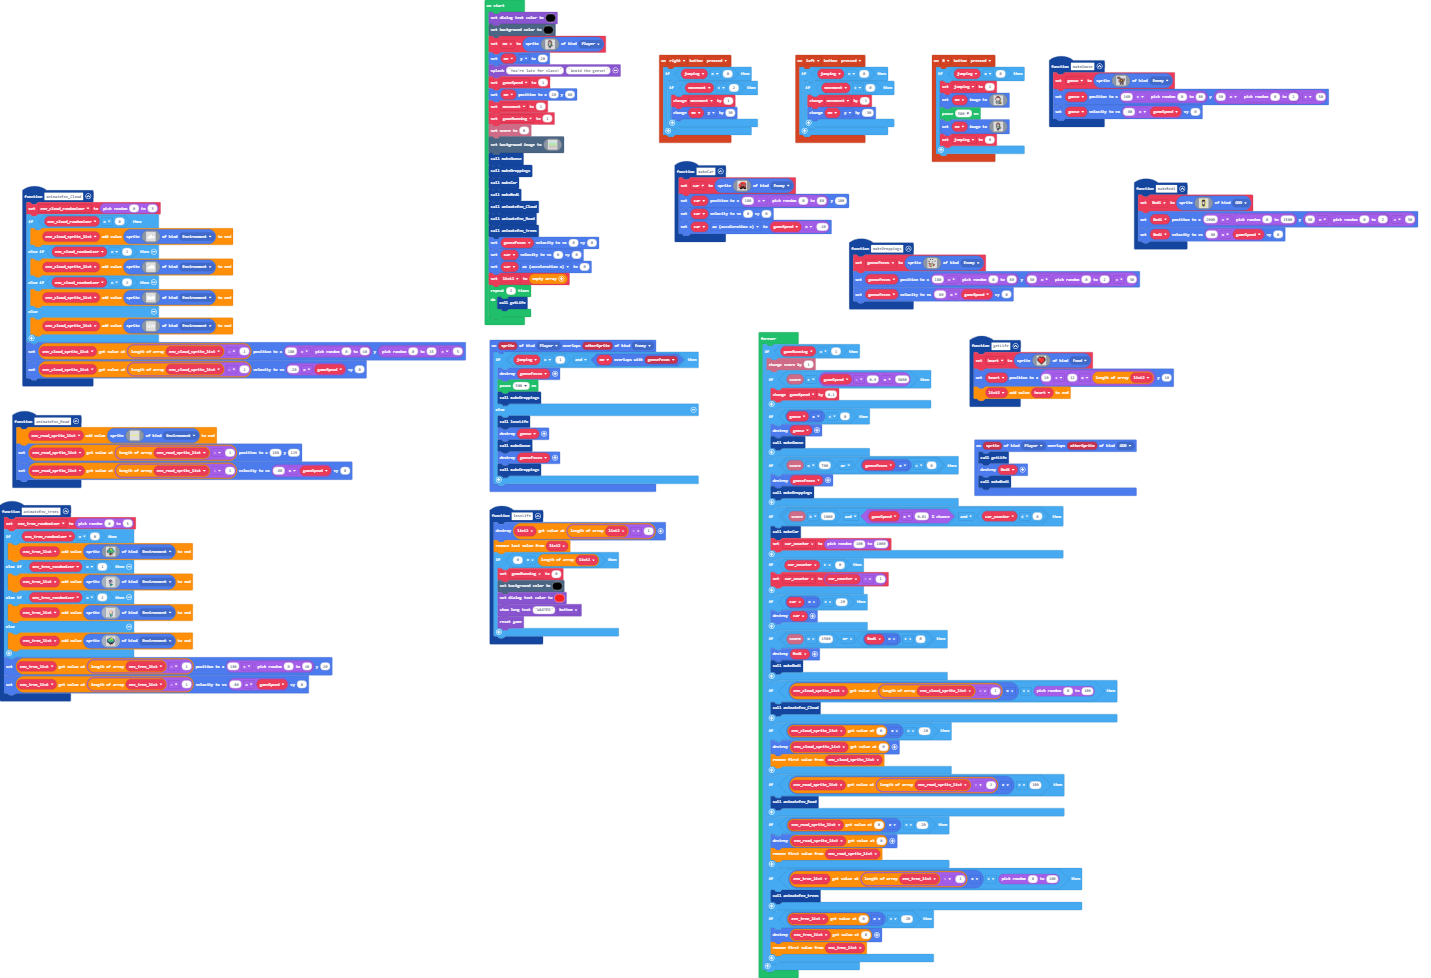
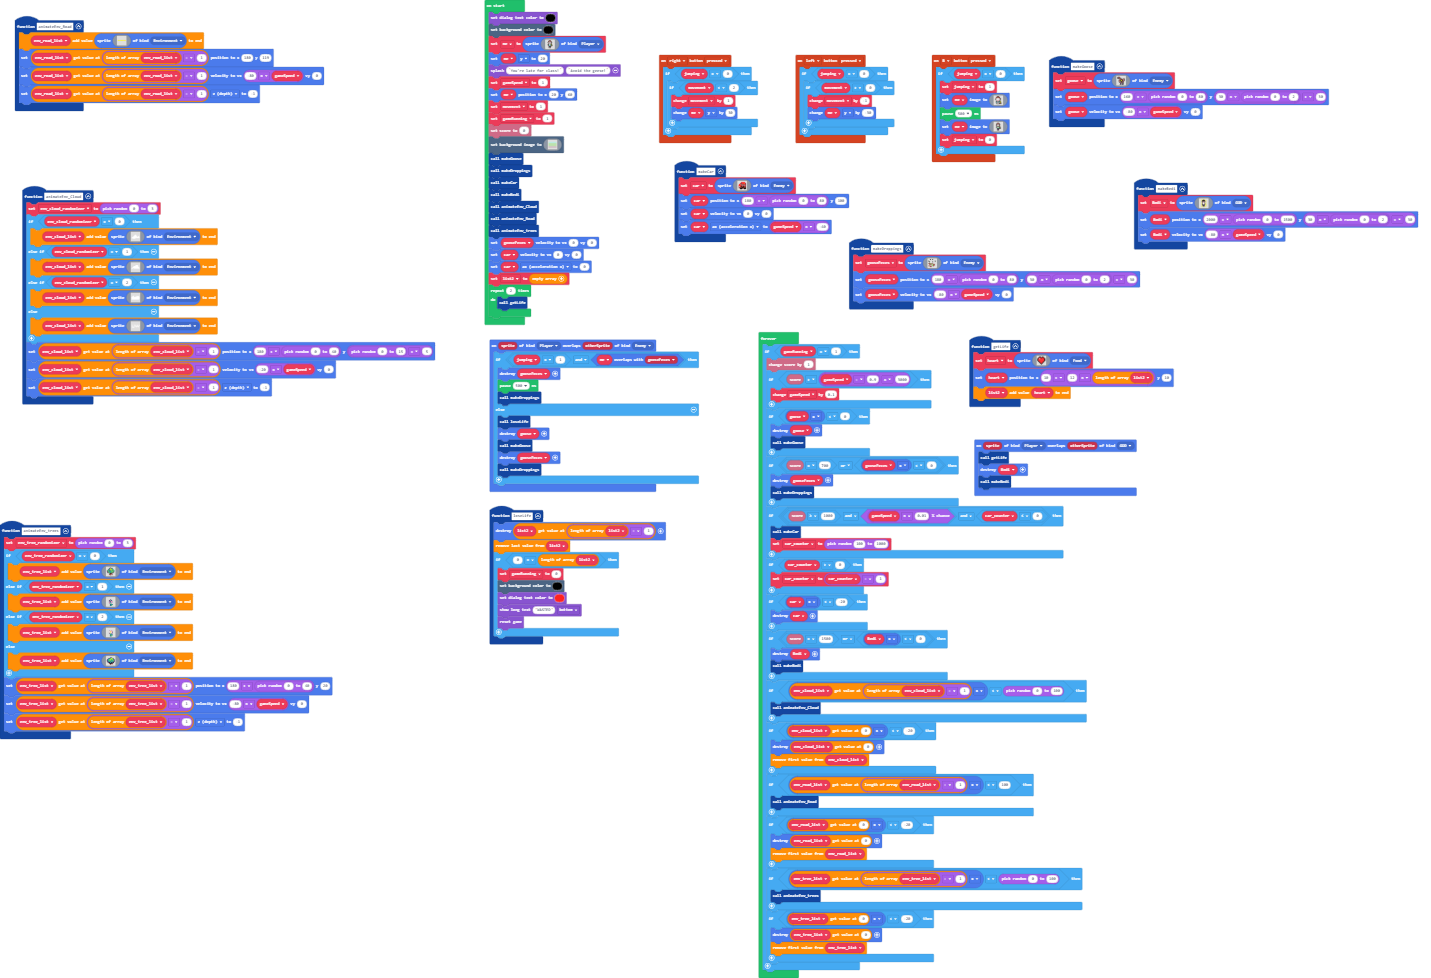
final refactoring

diff --git a/main.ts b/main.ts
@@ -171,6 +171,7 @@ function animateEnv_trees () {
     }
     env_tree_list[env_tree_list.length - 1].setPosition(180 + randint(0, 40), 20)
     env_tree_list[env_tree_list.length - 1].setVelocity(-80 * gameSpeed, 0)
+    env_tree_list[env_tree_list.length - 1].z = -1
 }
 function makeGoose () {
     goose = sprites.create(img`
@@ -291,12 +292,13 @@ function makeBedi () {
     Bedi.setVelocity(-80 * gameSpeed, 0)
 }
 function animateEnv_Road () {
-    env_road_sprite_list.push(sprites.create(img`
+    env_road_list.push(sprites.create(img`
         5 5 5 5 5 5 5 5 5 5 5 5 5 5 5 5 5 5 5 5 5 5 5 5 5 5 5 5 5 5 
         5 5 5 5 5 5 5 5 5 5 5 5 5 5 5 5 5 5 5 5 5 5 5 5 5 5 5 5 5 5 
         `, SpriteKind.Environment))
-    env_road_sprite_list[env_road_sprite_list.length - 1].setPosition(180, 119)
-    env_road_sprite_list[env_road_sprite_list.length - 1].setVelocity(-80 * gameSpeed, 0)
+    env_road_list[env_road_list.length - 1].setPosition(180, 119)
+    env_road_list[env_road_list.length - 1].setVelocity(-80 * gameSpeed, 0)
+    env_road_list[env_road_list.length - 1].z = -1
 }
 sprites.onOverlap(SpriteKind.Player, SpriteKind.GOD, function (sprite, otherSprite) {
     getLife()
@@ -306,7 +308,7 @@ sprites.onOverlap(SpriteKind.Player, SpriteKind.GOD, function (sprite, otherSpri
 function animateEnv_Cloud () {
     env_cloud_randomizer = randint(0, 3)
     if (env_cloud_randomizer == 0) {
-        env_cloud_sprite_list.push(sprites.create(img`
+        env_cloud_list.push(sprites.create(img`
             . . . . . . . 1 1 . . . . . . . 
             . . . . . . 1 1 1 1 . . . . . . 
             . . . . . 1 1 1 1 1 . . . . . . 
@@ -317,7 +319,7 @@ function animateEnv_Cloud () {
             . . 1 1 1 1 1 1 . . . . . . . . 
             `, SpriteKind.Environment))
     } else if (env_cloud_randomizer == 1) {
-        env_cloud_sprite_list.push(sprites.create(img`
+        env_cloud_list.push(sprites.create(img`
             . . . . . . . . 1 1 1 1 1 . . . 
             . . . . . . . . 1 1 1 1 1 1 . . 
             . . . . 1 1 1 1 1 1 1 1 1 1 . . 
@@ -328,7 +330,7 @@ function animateEnv_Cloud () {
             . . . . . . . . . . . . . . . . 
             `, SpriteKind.Environment))
     } else if (env_cloud_randomizer == 2) {
-        env_cloud_sprite_list.push(sprites.create(img`
+        env_cloud_list.push(sprites.create(img`
             . . . . 1 . . . . . . . . . . . 
             . . 1 1 1 . . . . . 1 1 1 1 1 . 
             . 1 1 1 1 . . 1 1 1 1 1 1 1 1 1 
@@ -339,7 +341,7 @@ function animateEnv_Cloud () {
             1 1 1 1 1 1 1 1 1 1 1 1 1 1 1 . 
             `, SpriteKind.Environment))
     } else {
-        env_cloud_sprite_list.push(sprites.create(img`
+        env_cloud_list.push(sprites.create(img`
             . . . . . . . . . . . . . . . . 
             . 1 . . . 1 . 1 . . . 1 . . . 1 
             . 1 . . . 1 . 1 . . . 1 . . . 1 
@@ -350,8 +352,9 @@ function animateEnv_Cloud () {
             . . . . . . . . . . . . . . . . 
             `, SpriteKind.Environment))
     }
-    env_cloud_sprite_list[env_cloud_sprite_list.length - 1].setPosition(180 + randint(0, 40), randint(0, 15) + 5)
-    env_cloud_sprite_list[env_cloud_sprite_list.length - 1].setVelocity(-20 * gameSpeed, 0)
+    env_cloud_list[env_cloud_list.length - 1].setPosition(180 + randint(0, 40), randint(0, 15) + 5)
+    env_cloud_list[env_cloud_list.length - 1].setVelocity(-20 * gameSpeed, 0)
+    env_cloud_list[env_cloud_list.length - 1].z = -1
 }
 sprites.onOverlap(SpriteKind.Player, SpriteKind.Enemy, function (sprite, otherSprite) {
     if (jumping == 1 && me.overlapsWith(gooseFeces)) {
@@ -367,9 +370,9 @@ sprites.onOverlap(SpriteKind.Player, SpriteKind.Enemy, function (sprite, otherSp
     }
 })
 let car_counter = 0
-let env_cloud_sprite_list: Sprite[] = []
+let env_cloud_list: Sprite[] = []
 let env_cloud_randomizer = 0
-let env_road_sprite_list: Sprite[] = []
+let env_road_list: Sprite[] = []
 let Bedi: Sprite = null
 let goose: Sprite = null
 let env_tree_list: Sprite[] = []
@@ -584,19 +587,19 @@ forever(function () {
             Bedi.destroy()
             makeBedi()
         }
-        if (env_cloud_sprite_list[env_cloud_sprite_list.length - 1].x < randint(0, 100)) {
+        if (env_cloud_list[env_cloud_list.length - 1].x < randint(0, 100)) {
             animateEnv_Cloud()
         }
-        if (env_cloud_sprite_list[0].x < -20) {
-            env_cloud_sprite_list[0].destroy()
-            env_cloud_sprite_list.shift()
+        if (env_cloud_list[0].x < -20) {
+            env_cloud_list[0].destroy()
+            env_cloud_list.shift()
         }
-        if (env_road_sprite_list[env_road_sprite_list.length - 1].x < 100) {
+        if (env_road_list[env_road_list.length - 1].x < 100) {
             animateEnv_Road()
         }
-        if (env_road_sprite_list[0].x < -20) {
-            env_road_sprite_list[0].destroy()
-            env_road_sprite_list.shift()
+        if (env_road_list[0].x < -20) {
+            env_road_list[0].destroy()
+            env_road_list.shift()
         }
         if (env_tree_list[env_tree_list.length - 1].x < randint(0, 100)) {
             animateEnv_trees()

diff --git a/main.py b/main.py
@@ -94,6 +94,92 @@ def on_b_pressed():
         jumping = 0
 controller.B.on_event(ControllerButtonEvent.PRESSED, on_b_pressed)
 
+def animateEnv_trees():
+    global env_tree_randomizer
+    env_tree_randomizer = randint(0, 3)
+    if env_tree_randomizer == 0:
+        env_tree_list.append(sprites.create(img("""
+                    . . . . . . . c c . . . . . . . 
+                                . . . . c c c 6 5 c 6 6 . . . . 
+                                . . . . c 6 c 5 5 c 7 6 . . . . 
+                                . . . 6 c c 7 5 5 7 c 6 6 . . . 
+                                . . c c 7 7 7 7 7 5 7 7 c 6 . . 
+                                . 6 6 6 c 6 7 7 7 7 6 c c 6 6 . 
+                                c 7 7 7 6 c 7 c 6 7 6 7 7 7 7 6 
+                                c c c 6 6 6 c 6 6 6 6 7 7 6 6 6 
+                                . c c 7 6 6 6 6 6 7 7 7 7 c 6 . 
+                                . c 7 7 6 6 7 6 6 7 7 6 7 7 c . 
+                                . c c c c 7 7 6 f 7 7 c c c c . 
+                                . . . . c 7 c f f c 7 c . . . . 
+                                . . . . . 6 f e e e c . . . . . 
+                                . . . . . e e e e e e . . . . . 
+                                . . . . e e . e e . e e . . . . 
+                                . . . . . . . e e . . . . . . .
+                """),
+                SpriteKind.Environment))
+    elif env_tree_randomizer == 1:
+        env_tree_list.append(sprites.create(img("""
+                    . . . . . . . . 
+                                . . . . . . . . 
+                                . . . . . . . . 
+                                . . c c c . . . 
+                                . c c 6 6 c . . 
+                                c c 3 3 f 6 c . 
+                                c 6 c f 6 3 c . 
+                                c 3 6 3 3 3 c . 
+                                c 3 6 6 3 3 c . 
+                                c 3 3 6 6 3 c . 
+                                . c 3 3 3 6 . . 
+                                . . 6 7 6 . . . 
+                                . . 6 6 8 8 8 6 
+                                . . 6 8 7 7 7 6 
+                                . . 8 7 7 7 6 . 
+                                . . 8 8 8 6 . .
+                """),
+                SpriteKind.Environment))
+    elif env_tree_randomizer == 2:
+        env_tree_list.append(sprites.create(img("""
+                    . . . . . . . . 
+                                . . . . . . . . 
+                                . . . . . . . . 
+                                . . . . . . . . 
+                                . b b d d b b . 
+                                b 1 1 3 3 1 1 b 
+                                b 1 3 5 5 3 1 b 
+                                b d 3 5 5 3 d b 
+                                c 1 1 d d 1 1 c 
+                                c d 1 d d 1 d c 
+                                . c c 7 6 c c . 
+                                . . 6 7 6 . . . 
+                                . . 6 6 8 8 8 6 
+                                . . 6 8 7 7 7 6 
+                                . . 8 7 7 7 6 . 
+                                . . 8 8 8 6 . .
+                """),
+                SpriteKind.Environment))
+    else:
+        env_tree_list.append(sprites.create(img("""
+                    . . . . . . . . . . . . . . . . 
+                                . . . . . . c c c c 6 . . . . . 
+                                . . . . c c 6 7 7 5 5 6 6 . . . 
+                                . . c c 6 6 6 6 7 5 5 7 c c . . 
+                                . c 6 6 6 7 7 7 7 7 7 5 6 c c . 
+                                . c 6 6 7 7 7 5 7 6 7 7 7 6 c c 
+                                c 6 6 7 7 6 7 7 7 6 7 7 6 6 6 c 
+                                c c 6 6 6 7 6 7 6 6 6 6 5 7 6 c 
+                                c c c c 6 7 7 6 7 7 7 6 7 6 6 c 
+                                . c c 6 6 6 6 c 6 6 6 6 6 c c c 
+                                . c c 6 6 c 6 6 c 6 c 6 6 c c . 
+                                . . c c f f 6 6 c f f c c f . . 
+                                . . . . c f c c c f c f f . . . 
+                                . . . . . 4 f f f c . e . . . . 
+                                . . . . . . e e e . . 4 . . . . 
+                                . . . . . . . e e . e . . . . .
+                """),
+                SpriteKind.Environment))
+    env_tree_list[len(env_tree_list) - 1].set_position(180 + randint(0, 40), 20)
+    env_tree_list[len(env_tree_list) - 1].set_velocity(-80 * gameSpeed, 0)
+    env_tree_list[len(env_tree_list) - 1].z = -1
 def makeGoose():
     global goose
     goose = sprites.create(img("""
@@ -157,8 +243,9 @@ def makeCar():
                     . . . . . . . . . . . . . . . .
         """),
         SpriteKind.enemy)
-    car.set_position(180 + randint(0, 80), 60)
-    car.set_velocity(-40 * gameSpeed, 0)
+    car.set_position(180 + randint(0, 80), 100)
+    car.set_velocity(0, 0)
+    car.ax = gameSpeed * -40
 def loseLife():
     global gameRunning
     list2[len(list2) - 1].destroy()
@@ -216,13 +303,14 @@ def makeBedi():
     Bedi.set_position(2000 + randint(0, 1500), 30 * randint(0, 2) + 30)
     Bedi.set_velocity(-80 * gameSpeed, 0)
 def animateEnv_Road():
-    env_road_sprite_list.append(sprites.create(img("""
+    env_road_list.append(sprites.create(img("""
                 5 5 5 5 5 5 5 5 5 5 5 5 5 5 5 5 5 5 5 5 5 5 5 5 5 5 5 5 5 5 
                         5 5 5 5 5 5 5 5 5 5 5 5 5 5 5 5 5 5 5 5 5 5 5 5 5 5 5 5 5 5
             """),
             SpriteKind.Environment))
-    env_road_sprite_list[len(env_road_sprite_list) - 1].set_position(180, 119)
-    env_road_sprite_list[len(env_road_sprite_list) - 1].set_velocity(-80 * gameSpeed, 0)
+    env_road_list[len(env_road_list) - 1].set_position(180, 119)
+    env_road_list[len(env_road_list) - 1].set_velocity(-80 * gameSpeed, 0)
+    env_road_list[len(env_road_list) - 1].z = -1
 
 def on_on_overlap(sprite, otherSprite):
     getLife()
@@ -234,7 +322,7 @@ def animateEnv_Cloud():
     global env_cloud_randomizer
     env_cloud_randomizer = randint(0, 3)
     if env_cloud_randomizer == 0:
-        env_cloud_sprite_list.append(sprites.create(img("""
+        env_cloud_list.append(sprites.create(img("""
                     . . . . . . . 1 1 . . . . . . . 
                                 . . . . . . 1 1 1 1 . . . . . . 
                                 . . . . . 1 1 1 1 1 . . . . . . 
@@ -246,7 +334,7 @@ def animateEnv_Cloud():
                 """),
                 SpriteKind.Environment))
     elif env_cloud_randomizer == 1:
-        env_cloud_sprite_list.append(sprites.create(img("""
+        env_cloud_list.append(sprites.create(img("""
                     . . . . . . . . 1 1 1 1 1 . . . 
                                 . . . . . . . . 1 1 1 1 1 1 . . 
                                 . . . . 1 1 1 1 1 1 1 1 1 1 . . 
@@ -258,7 +346,7 @@ def animateEnv_Cloud():
                 """),
                 SpriteKind.Environment))
     elif env_cloud_randomizer == 2:
-        env_cloud_sprite_list.append(sprites.create(img("""
+        env_cloud_list.append(sprites.create(img("""
                     . . . . 1 . . . . . . . . . . . 
                                 . . 1 1 1 . . . . . 1 1 1 1 1 . 
                                 . 1 1 1 1 . . 1 1 1 1 1 1 1 1 1 
@@ -270,7 +358,7 @@ def animateEnv_Cloud():
                 """),
                 SpriteKind.Environment))
     else:
-        env_cloud_sprite_list.append(sprites.create(img("""
+        env_cloud_list.append(sprites.create(img("""
                     . . . . . . . . . . . . . . . . 
                                 . 1 . . . 1 . 1 . . . 1 . . . 1 
                                 . 1 . . . 1 . 1 . . . 1 . . . 1 
@@ -281,8 +369,9 @@ def animateEnv_Cloud():
                                 . . . . . . . . . . . . . . . .
                 """),
                 SpriteKind.Environment))
-    env_cloud_sprite_list[len(env_cloud_sprite_list) - 1].set_position(180 + randint(0, 40), randint(0, 15) + 5)
-    env_cloud_sprite_list[len(env_cloud_sprite_list) - 1].set_velocity(-20 * gameSpeed, 0)
+    env_cloud_list[len(env_cloud_list) - 1].set_position(180 + randint(0, 40), randint(0, 15) + 5)
+    env_cloud_list[len(env_cloud_list) - 1].set_velocity(-20 * gameSpeed, 0)
+    env_cloud_list[len(env_cloud_list) - 1].z = -1
 
 def on_on_overlap2(sprite, otherSprite):
     if jumping == 1 and me.overlaps_with(gooseFeces):
@@ -297,15 +386,18 @@ def on_on_overlap2(sprite, otherSprite):
         makeDroppings()
 sprites.on_overlap(SpriteKind.player, SpriteKind.enemy, on_on_overlap2)
 
-env_cloud_sprite_list: List[Sprite] = []
+car_counter = 0
+env_cloud_list: List[Sprite] = []
 env_cloud_randomizer = 0
-env_road_sprite_list: List[Sprite] = []
+env_road_list: List[Sprite] = []
 Bedi: Sprite = None
-car: Sprite = None
 goose: Sprite = None
+env_tree_list: List[Sprite] = []
+env_tree_randomizer = 0
 jumping = 0
 heart: Sprite = None
 list2: List[Sprite] = []
+car: Sprite = None
 gooseFeces: Sprite = None
 gameRunning = 0
 movement = 0
@@ -473,16 +565,20 @@ scene.set_background_image(img("""
 """))
 makeGoose()
 makeDroppings()
+makeCar()
 makeBedi()
 animateEnv_Cloud()
 animateEnv_Road()
+animateEnv_trees()
 gooseFeces.set_velocity(0, 0)
+car.set_velocity(0, 0)
+car.ax = 0
 list2 = []
 for index in range(2):
     getLife()
 
 def on_forever():
-    global gameSpeed
+    global gameSpeed, car_counter
     if gameRunning == 1:
         info.change_score_by(1)
         if info.score() > (gameSpeed - 0.9) * 3000:
@@ -493,17 +589,29 @@ def on_forever():
         if info.score() == 700 or gooseFeces.x < 0:
             gooseFeces.destroy()
             makeDroppings()
+        if info.score() >= 1000 and Math.percent_chance(gameSpeed * 0.01) and car_counter <= 0:
+            makeCar()
+            car_counter = randint(100, 1000)
+        if car_counter > 0:
+            car_counter = car_counter - 1
+        if car.x < -20:
+            car.destroy()
         if info.score() == 1500 or Bedi.x < 0:
             Bedi.destroy()
             makeBedi()
-        if env_cloud_sprite_list[len(env_cloud_sprite_list) - 1].x < randint(0, 100):
+        if env_cloud_list[len(env_cloud_list) - 1].x < randint(0, 100):
             animateEnv_Cloud()
-        if env_cloud_sprite_list[0].x < -20:
-            env_cloud_sprite_list[0].destroy()
-            env_cloud_sprite_list.shift()
-        if env_road_sprite_list[len(env_road_sprite_list) - 1].x < 100:
+        if env_cloud_list[0].x < -20:
+            env_cloud_list[0].destroy()
+            env_cloud_list.shift()
+        if env_road_list[len(env_road_list) - 1].x < 100:
             animateEnv_Road()
-        if env_road_sprite_list[0].x < -20:
-            env_road_sprite_list[0].destroy()
-            env_road_sprite_list.shift()
+        if env_road_list[0].x < -20:
+            env_road_list[0].destroy()
+            env_road_list.shift()
+        if env_tree_list[len(env_tree_list) - 1].x < randint(0, 100):
+            animateEnv_trees()
+        if env_tree_list[0].x < -20:
+            env_tree_list[0].destroy()
+            env_tree_list.shift()
 forever(on_forever)
